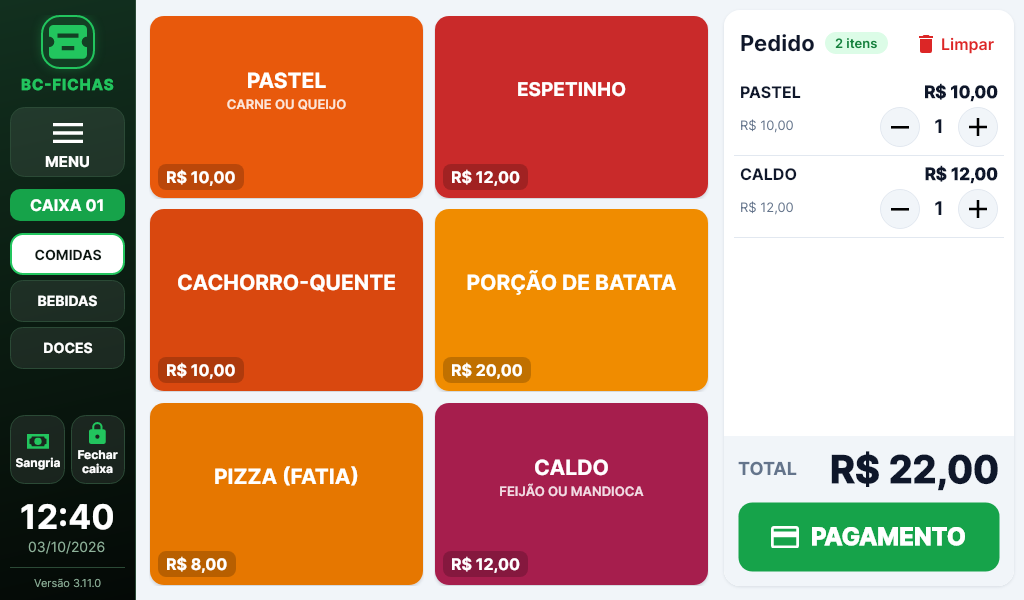
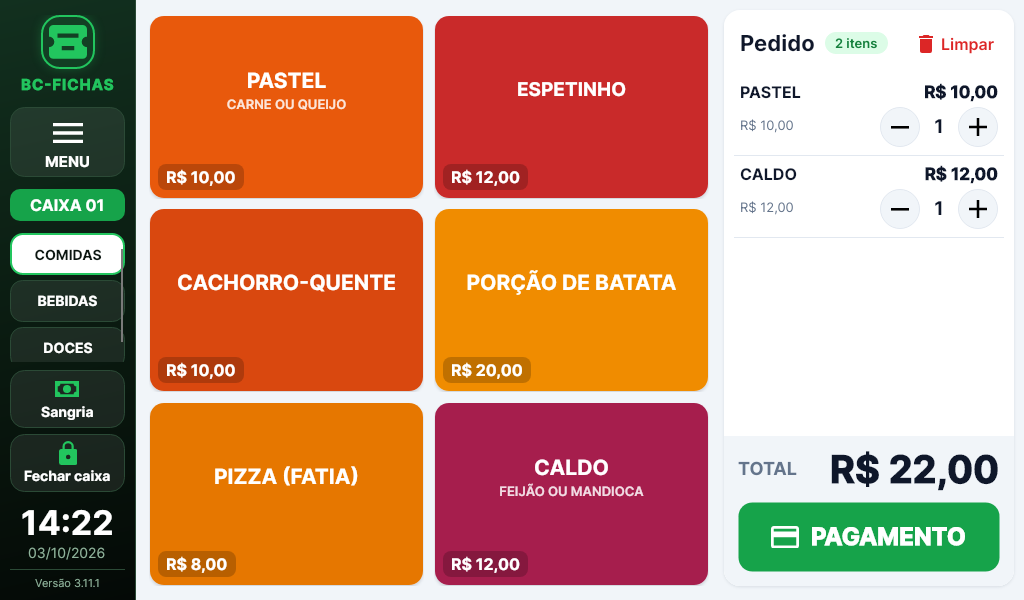
Versão 3.11.1: fotos sem cópias repetidas e Sangria/Fechar caixa maiores
- A foto ou o logotipo escolhido ganha o nome tirado da própria imagem:
  escolher a mesma de novo não cria outra cópia em dados\imagens.
- Imagens que nenhum produto nem o logotipo usam (foto trocada, produto
  excluído, logotipo antigo, evento anterior) são apagadas ao abrir o
  programa, ao restaurar, ao apagar as vendas e ao zerar a programação.
  Zerar e restaurar também limpam as fichas salvas em dados\impressoes.
- Barra lateral: Sangria e Fechar caixa um embaixo do outro, na largura
  toda; o telefone do suporte foi para o rodapé do Menu.

Claude-Session: https://claude.ai/code/session_01PrUwZ2SHAkAtG8QPnZCrhE

Changed region(s): [[0.0, 0.6, 0.125, 0.81], [0.0, 0.84, 0.125, 0.99]]

diff --git a/tests/BCFichas.Tests/Core/ImagensSemUsoTests.cs b/tests/BCFichas.Tests/Core/ImagensSemUsoTests.cs
@@ -1,0 +1,146 @@
+using BCFichas.Core;
+using BCFichas.Core.Impressao;
+using SkiaSharp;
+using Xunit;
+
+namespace BCFichas.Tests.Core;
+
+/// <summary>
+/// As fotos dos produtos e os logotipos ficam na pasta de dados: a mesma imagem não vira outra cópia e o que
+/// ninguém usa mais é apagado (ao abrir o programa, ao restaurar, ao apagar as vendas e ao zerar a programação).
+/// </summary>
+public class ImagensSemUsoTests : IDisposable
+{
+    private readonly SistemaTemporario _a = new();
+    private readonly SistemaTemporario _b = new();
+    private Sistema S => _a.Sistema;
+
+    public void Dispose()
+    {
+        _a.Dispose();
+        _b.Dispose();
+    }
+
+    private string Origem(string nome, SKColor cor)
+    {
+        var caminho = Path.Combine(_a.Pasta, nome + ".png");
+        using var bmp = new SKBitmap(300, 300);
+        using (var c = new SKCanvas(bmp)) c.Clear(cor);
+        ImagemUtil.SalvarPng(bmp, caminho);
+        return caminho;
+    }
+
+    private string Foto(SKColor cor) =>
+        Path.Combine("imagens", "produtos",
+            ImagemUtil.Importar(Origem("foto", cor), Path.Combine(S.PastaImagens, "produtos"), "", 256));
+
+    private string Logo(SKColor cor) =>
+        Path.Combine("imagens", ImagemUtil.Importar(Origem("logo", cor), S.PastaImagens, "logo-", 600));
+
+    private string[] Arquivos() =>
+        Directory.GetFiles(S.PastaImagens, "*", SearchOption.AllDirectories)
+            .Select(f => Path.GetRelativePath(S.PastaDados, f)).Order().ToArray();
+
+    private void UsarFoto(string produto, string? foto)
+    {
+        var p = S.Catalogo.Produtos().First(x => x.Nome == produto);
+        p.Imagem = foto;
+        S.Catalogo.SalvarProduto(p, 30);
+    }
+
+    private void UsarLogo(string? logo)
+    {
+        var config = S.Config.Atual.Clonar();
+        config.Logo = logo;
+        S.Config.Salvar(config);
+    }
+
+    [Fact]
+    public void A_mesma_imagem_escolhida_de_novo_nao_vira_outra_copia()
+    {
+        var primeira = Foto(SKColors.Orange);
+        var deNovo = Foto(SKColors.Orange);
+        var outra = Foto(SKColors.Green);
+        Assert.Equal(primeira, deNovo);
+        Assert.NotEqual(primeira, outra);
+        Assert.Equal(Logo(SKColors.Black), Logo(SKColors.Black));
+        Assert.StartsWith("logo-", Path.GetFileName(Logo(SKColors.Black)));
+        Assert.Equal(3, Arquivos().Length); // 2 fotos e 1 logotipo
+    }
+
+    [Fact]
+    public void Apaga_so_as_imagens_que_ninguem_usa()
+    {
+        var pastel = Foto(SKColors.Orange);
+        var cerveja = Foto(SKColors.Yellow);
+        var trocada = Foto(SKColors.Red);
+        var logoVelho = Logo(SKColors.Gray);
+        var logo = Logo(SKColors.Black);
+        UsarFoto("PASTEL", pastel);
+        UsarFoto("CERVEJA", cerveja);
+        UsarFoto("BOLO", cerveja); // a mesma foto em dois produtos
+        UsarLogo(logo);
+        // Produto fora da tela de venda continua com a foto
+        var cerveja2 = S.Catalogo.Produtos().First(x => x.Nome == "CERVEJA");
+        cerveja2.Ativo = false;
+        S.Catalogo.SalvarProduto(cerveja2, 30);
+
+        Assert.Equal(2, S.Programacao.LimparImagensSemUso()); // a foto trocada e o logotipo velho
+        Assert.Equal(new[] { pastel, cerveja, logo }.Order().ToArray(), Arquivos());
+        Assert.False(File.Exists(Path.Combine(S.PastaDados, trocada)));
+        Assert.False(File.Exists(Path.Combine(S.PastaDados, logoVelho)));
+
+        // Produto excluído: a foto sai na próxima limpeza, ao abrir o programa de novo
+        S.Catalogo.ExcluirProduto(S.Catalogo.Produtos().First(x => x.Nome == "PASTEL").Id);
+        Sistema.Iniciar(_a.Pasta, criarExemplos: false);
+        Assert.DoesNotContain(pastel, Arquivos());
+        Assert.Contains(cerveja, Arquivos());
+    }
+
+    [Fact]
+    public void Reprogramar_para_novo_evento_apaga_todas_as_fotos_os_logotipos_e_as_fichas_salvas()
+    {
+        UsarFoto("PASTEL", Foto(SKColors.Orange));
+        UsarLogo(Logo(SKColors.Black));
+        Logo(SKColors.Gray); // logotipo antigo que sobrou
+        var impressoes = Path.Combine(S.PastaDados, ServicoImpressao.PastaArquivoPadrao);
+        Directory.CreateDirectory(impressoes);
+        File.WriteAllText(Path.Combine(impressoes, "ficha-1.png"), "x");
+
+        S.Programacao.ZerarProgramacao();
+        Assert.Empty(Arquivos());
+        Assert.Empty(Directory.GetFiles(impressoes));
+        Assert.Null(S.Config.Atual.Logo);
+        // As cópias de segurança do banco ficam (são para desfazer um engano)
+        Assert.NotEmpty(Directory.GetFiles(S.Programacao.PastaBackups));
+    }
+
+    [Fact]
+    public void Restaurar_tira_as_imagens_da_programacao_anterior()
+    {
+        // Máquina B: programação do evento novo, com foto e logotipo
+        var b = _b.Sistema;
+        var origem = Path.Combine(_b.Pasta, "pipoca.png");
+        using (var bmp = new SKBitmap(100, 100))
+        {
+            using (var c = new SKCanvas(bmp)) c.Clear(SKColors.Purple);
+            ImagemUtil.SalvarPng(bmp, origem);
+        }
+        var foto = Path.Combine("imagens", "produtos",
+            ImagemUtil.Importar(origem, Path.Combine(b.PastaImagens, "produtos"), "", 256));
+        var pipoca = b.Catalogo.Produtos().First(x => x.Nome == "PIPOCA");
+        pipoca.Imagem = foto;
+        b.Catalogo.SalvarProduto(pipoca, 30);
+        var arquivo = Path.Combine(_b.Pasta, "evento-novo.bcf");
+        b.Programacao.Salvar(arquivo);
+
+        // Máquina A: fotos e logotipo do evento anterior
+        var velha = Foto(SKColors.Orange);
+        UsarFoto("PASTEL", velha);
+        UsarLogo(Logo(SKColors.Black));
+
+        S.Programacao.Carregar(arquivo, 3);
+        Assert.Equal(new[] { foto }, Arquivos());
+        Assert.Equal(foto, S.Catalogo.Produtos().First(x => x.Nome == "PIPOCA").Imagem);
+    }
+}

diff --git a/src/BCFichas.Core/Servicos/ProgramacaoServico.cs b/src/BCFichas.Core/Servicos/ProgramacaoServico.cs
@@ -64,6 +64,7 @@ public sealed class ProgramacaoServico
     }
 
     public string PastaBackups => Path.Combine(_pastaDados, "backups");
+    public string PastaImagens => Path.Combine(_pastaDados, "imagens");
 
     /// <summary>
     /// Caminho completo da pasta do backup. Aceita %USERPROFILE% e afins; um caminho sem a letra do disco vale a
@@ -298,6 +299,7 @@ public sealed class ProgramacaoServico
 
         _config.Salvar(config);
         _catalogo.AvisarAlteracao();
+        LimparArquivosSemUso();
     }
 
     // ---------- Começar de novo ----------
@@ -320,6 +322,7 @@ public sealed class ProgramacaoServico
             ApagarVendas(c, t);
         });
         _catalogo.AvisarAlteracao();
+        LimparArquivosSemUso();
     }
 
     /// <summary>
@@ -342,6 +345,59 @@ public sealed class ProgramacaoServico
         nova.TelasProtegidas = atual.TelasProtegidas;
         _config.Salvar(nova);
         _catalogo.AvisarAlteracao();
+        LimparArquivosSemUso(); // sem produtos e sem logotipo: as fotos e os logos do evento anterior saem todos
+    }
+
+    /// <summary>
+    /// Apaga da pasta de dados as imagens que nenhum produto nem o logotipo usam: foto trocada, produto excluído,
+    /// logotipo antigo, programação de outro evento. Feito ao abrir o programa, ao restaurar e ao zerar a
+    /// programação (com uma tela de produtos aberta, uma foto escolhida e ainda não salva sumiria). Devolve
+    /// quantas apagou.
+    /// </summary>
+    public int LimparImagensSemUso()
+    {
+        if (!Directory.Exists(PastaImagens)) return 0;
+        var usadas = _catalogo.Produtos().Select(p => p.Imagem).Append(_config.Atual.Logo)
+            .Where(i => !string.IsNullOrWhiteSpace(i))
+            .Select(i => Path.GetFullPath(Path.Combine(_pastaDados, i!)))
+            .ToHashSet(StringComparer.OrdinalIgnoreCase);
+        var apagadas = 0;
+        foreach (var arquivo in Directory.GetFiles(PastaImagens, "*", SearchOption.AllDirectories))
+        {
+            if (usadas.Contains(Path.GetFullPath(arquivo))) continue;
+            try
+            {
+                File.Delete(arquivo);
+                apagadas++;
+            }
+            catch (Exception e) when (e is IOException or UnauthorizedAccessException)
+            {
+                // Em uso agora: sai da próxima vez.
+            }
+        }
+        return apagadas;
+    }
+
+    /// <summary>
+    /// Depois de apagar vendas, restaurar ou zerar: tira as imagens sem uso e as fichas que a impressora "Salvar
+    /// em arquivo" (teste sem impressora) guardou na pasta padrão.
+    /// </summary>
+    private void LimparArquivosSemUso()
+    {
+        LimparImagensSemUso();
+        var impressoes = Path.Combine(_pastaDados, Impressao.ServicoImpressao.PastaArquivoPadrao);
+        if (!Directory.Exists(impressoes)) return;
+        foreach (var arquivo in Directory.GetFiles(impressoes))
+        {
+            try
+            {
+                File.Delete(arquivo);
+            }
+            catch (Exception e) when (e is IOException or UnauthorizedAccessException)
+            {
+                // Em uso agora: sai da próxima vez.
+            }
+        }
     }
 
     /// <summary>

diff --git a/tests/BCFichas.Tests/Ui/TelasDaVersao311Tests.cs b/tests/BCFichas.Tests/Ui/TelasDaVersao311Tests.cs
@@ -106,6 +106,11 @@ public class TelasDaVersao311Tests
         var sangria = Assert.Single(Visiveis(t, b => b.Command == t.Venda.AbrirSangriaCommand));
         var fechar = Assert.Single(Visiveis(t, b => b.Command == t.Venda.FecharCaixaCommand));
         Assert.True(TemTexto(fechar, "Fechar caixa"));
+        // Um embaixo do outro, na largura toda da barra: botões grandes para o dedo
+        Assert.All(new[] { sangria, fechar }, b => Assert.True(b.Bounds.Width >= 110 && b.Bounds.Height >= 56,
+            $"{b.Bounds.Width:0} × {b.Bounds.Height:0}"));
+        Assert.True(fechar.TranslatePoint(new Point(0, 0), t.Janela)!.Value.Y >
+                    sangria.TranslatePoint(new Point(0, sangria.Bounds.Height), t.Janela)!.Value.Y);
         // Na lateral esquerda, embaixo das abas e em cima do relógio
         Assert.True(sangria.TranslatePoint(new Point(0, 0), t.Janela)!.Value.X < 136);
         var relogio = t.Achar<TextBlock>(x => x.Text == t.Principal.Relogio && x.IsEffectivelyVisible);
@@ -117,6 +122,8 @@ public class TelasDaVersao311Tests
         Assert.DoesNotContain(textos, x => x.Contains("Maquininha", StringComparison.OrdinalIgnoreCase));
         Assert.DoesNotContain(textos, x => x.Contains(t.Sistema.Impressao.Descricao(), StringComparison.Ordinal));
         Assert.Contains(textos, x => x == t.Principal.Versao);
+        // O telefone do suporte saiu da lateral e foi para o menu
+        Assert.DoesNotContain(textos, x => x.Contains(Configuracao.Suporte, StringComparison.Ordinal));
 
         // Sangria abre direto (o Voltar volta para a venda, sem o menu)
         sangria.Command!.Execute(null);
@@ -133,6 +140,8 @@ public class TelasDaVersao311Tests
         t.Venda.AbrirMenuCommand.Execute(null);
         var menu = Assert.IsType<MenuViewModel>(t.Principal.Dialogo);
         Assert.DoesNotContain(menu.Itens, i => i.Titulo is "Sangria / Suprimento" or "Fechar caixa");
+        TelaDeTeste.Atualizar();
+        t.Achar<TextBlock>(x => x.Text == "Suporte BC Fichas: " + Configuracao.Suporte);
     }
 
     [AvaloniaFact]

diff --git a/src/BCFichas.Core/Impressao/ImagemUtil.cs b/src/BCFichas.Core/Impressao/ImagemUtil.cs
@@ -1,3 +1,4 @@
+using System.Security.Cryptography;
 using SkiaSharp;
 
 namespace BCFichas.Core.Impressao;
@@ -37,14 +38,20 @@ public static class ImagemUtil
     }
 
     /// <summary>
-    /// Copia uma imagem escolhida pelo usuário para a pasta do sistema, já reduzida (economiza memória do tablet).
+    /// Copia uma imagem escolhida pelo usuário para <paramref name="pasta"/>, já reduzida (economiza memória do
+    /// tablet). O nome do arquivo vem do conteúdo da imagem: escolher a mesma foto de novo (em outro produto ou no
+    /// mesmo) usa o arquivo que já existe, sem fazer outra cópia. Devolve o nome do arquivo.
     /// </summary>
-    public static void Importar(string origem, string destino, int tamanhoMaximo)
+    public static string Importar(string origem, string pasta, string prefixo, int tamanhoMaximo)
     {
         using var imagem = SKBitmap.Decode(origem) ?? throw new ErroDeNegocio("Não consegui abrir esta imagem.");
         using var menor = Ajustar(imagem, tamanhoMaximo, tamanhoMaximo);
-        Directory.CreateDirectory(Path.GetDirectoryName(destino)!);
-        SalvarPng(menor, destino);
+        var png = Png(menor);
+        var nome = prefixo + Convert.ToHexString(SHA256.HashData(png))[..16].ToLowerInvariant() + ".png";
+        Directory.CreateDirectory(pasta);
+        var destino = Path.Combine(pasta, nome);
+        if (!File.Exists(destino)) File.WriteAllBytes(destino, png);
+        return nome;
     }
 
     public static void SalvarPng(SKBitmap bitmap, string caminho)

diff --git a/tests/BCFichas.Tests/Ui/FluxoDeVendaTests.cs b/tests/BCFichas.Tests/Ui/FluxoDeVendaTests.cs
@@ -300,9 +300,9 @@ public class FluxoDeVendaTests
                 c.DrawText(emoji, 18, 205, p);
                 BCFichas.Core.Impressao.ImagemUtil.SalvarPng(bmp, origem);
             }
-            var relativo = Path.Combine("imagens", "produtos", produto.Id + ".png");
-            BCFichas.Core.Impressao.ImagemUtil.Importar(origem, Path.Combine(t.Sistema.PastaDados, relativo), 256);
-            produto.Imagem = relativo;
+            var nome = BCFichas.Core.Impressao.ImagemUtil.Importar(origem,
+                Path.Combine(t.Sistema.PastaImagens, "produtos"), "", 256);
+            produto.Imagem = Path.Combine("imagens", "produtos", nome);
             t.Sistema.Catalogo.SalvarProduto(produto, 12);
         }
         TelaDeTeste.Atualizar();

diff --git a/src/BCFichas.App/ViewModels/ProdutosViewModel.cs b/src/BCFichas.App/ViewModels/ProdutosViewModel.cs
@@ -471,9 +471,8 @@ public sealed partial class ProdutosViewModel : PaginaViewModel
         if (arquivo is null) return;
         try
         {
-            var relativo = Path.Combine("imagens", "produtos", Guid.NewGuid().ToString("N")[..12] + ".png");
-            ImagemUtil.Importar(arquivo, Path.Combine(Sistema.PastaDados, relativo), 256);
-            Imagem = relativo;
+            var nome = ImagemUtil.Importar(arquivo, Path.Combine(Sistema.PastaImagens, "produtos"), "", 256);
+            Imagem = Path.Combine("imagens", "produtos", nome);
         }
         catch (Exception e)
         {

diff --git a/src/BCFichas.Core/Impressao/ServicoImpressao.cs b/src/BCFichas.Core/Impressao/ServicoImpressao.cs
@@ -24,7 +24,10 @@ public sealed class ServicoImpressao
 
     public ResultadoImpressao? Ultimo { get; private set; }
 
-    public string PastaPadraoArquivo => Path.Combine(_pastaDados, "impressoes");
+    /// <summary>Pasta (dentro da pasta de dados) onde "Salvar em arquivo" guarda as fichas, se não escolher outra.</summary>
+    public const string PastaArquivoPadrao = "impressoes";
+
+    public string PastaPadraoArquivo => Path.Combine(_pastaDados, PastaArquivoPadrao);
 
     public IDestinoImpressao CriarDestino(Configuracao c) => c.Impressora switch
     {

diff --git a/src/BCFichas.Core/Sistema.cs b/src/BCFichas.Core/Sistema.cs
@@ -62,6 +62,15 @@ public sealed class Sistema
         {
             sistema.Catalogo.SalvarAba(new Aba { Nome = "ITENS" });
         }
+        // Fotos e logotipos que sobraram (trocados, de produtos excluídos) não ficam acumulando na pasta de dados.
+        try
+        {
+            sistema.Programacao.LimparImagensSemUso();
+        }
+        catch (Exception e) when (e is IOException or UnauthorizedAccessException)
+        {
+            // Sem permissão na pasta: o programa abre do mesmo jeito.
+        }
         return sistema;
     }
 

diff --git a/src/BCFichas.App/ViewModels/ConfiguracaoViewModel.cs b/src/BCFichas.App/ViewModels/ConfiguracaoViewModel.cs
@@ -928,9 +928,7 @@ public sealed partial class ConfiguracaoViewModel : PaginaViewModel
         if (arquivo is null) return;
         try
         {
-            var relativo = Path.Combine("imagens", "logo-" + DateTime.Now.Ticks + ".png");
-            ImagemUtil.Importar(arquivo, Path.Combine(Sistema.PastaDados, relativo), 600);
-            Logo = relativo;
+            Logo = Path.Combine("imagens", ImagemUtil.Importar(arquivo, Sistema.PastaImagens, "logo-", 600));
         }
         catch (Exception e)
         {

diff --git a/src/BCFichas.App/ViewModels/DialogosViewModels.cs b/src/BCFichas.App/ViewModels/DialogosViewModels.cs
@@ -52,6 +52,7 @@ public sealed partial class MenuViewModel : ViewModelBase
     }
 
     public List<ItemMenu> Itens { get; }
+    public string Suporte => "Suporte BC Fichas: " + Configuracao.Suporte;
 
     /// <summary>Tela aberta pelo menu: o Voltar dela traz o menu de volta.</summary>
     private void AbrirPeloMenu(TelaProtegida tela, Func<PaginaViewModel> criar) =>

diff --git a/README.md b/README.md
@@ -13,7 +13,7 @@ na **Elgin i9** em papel de 80 mm.
 
 | Tela | O que faz |
 | --- | --- |
-| **Venda** | Barra lateral preta e verde com a marca da BC Fichas, menu, caixa, as **abas do cardápio** (Comidas, Bebidas… até umas 6, uma embaixo da outra), os botões **Sangria** e **Fechar caixa** e o relógio; botões com foto do produto (ou só cor) que **ocupam a tela toda, sem espaço vazio** (cada aba tem a sua grade, veja "Grade de botões"); pedido com + e − (o valor de cada linha fica sempre à vista, mesmo com nome comprido); total e botão de pagamento. Depois de uma venda em dinheiro com troco, o **troco** fica uns 5 segundos em cima do pedido (sem tapar os produtos). |
+| **Venda** | Barra lateral preta e verde com a marca da BC Fichas, menu, caixa, as **abas do cardápio** (Comidas, Bebidas… até umas 6, uma embaixo da outra), os botões **Sangria** e **Fechar caixa** (grandes, um embaixo do outro) e o relógio; o telefone do suporte fica no Menu e na abertura do caixa; botões com foto do produto (ou só cor) que **ocupam a tela toda, sem espaço vazio** (cada aba tem a sua grade, veja "Grade de botões"); pedido com + e − (o valor de cada linha fica sempre à vista, mesmo com nome comprido); total e botão de pagamento. Depois de uma venda em dinheiro com troco, o **troco** fica uns 5 segundos em cima do pedido (sem tapar os produtos). |
 | **Pagamento** | Cartões grandes para Dinheiro, PIX (com o símbolo oficial do Pix), Débito e Crédito. Dinheiro: o valor recebido **já vem com o valor da venda** (pagou certinho, é só confirmar); se o cliente deu mais, é só digitar (a primeira tecla apaga e começa do zero) ou tocar nas notas, e o troco (ou quanto falta) aparece embaixo; o **Limpar** fica no teclado, no lugar do 00. Débito, crédito e PIX registrados para o relatório (veja "Maquininha de cartão"). |
 | **Menu** | Produtos, Relatórios, Configurações e Sair (Sangria e Fechar caixa ficam na barra lateral). **Reimprimir** e **Devolver fichas** só aparecem quando a BC Fichas libera para o cliente (Configurações → Máquina). Ao voltar de uma tela aberta pelo menu, o menu continua aberto; ele só fecha no X. |
 | **Produtos** | Nome, detalhe, preço, custo, aba, posição na tela, cor, imagem (o botão Imagem abre sempre em `C:\Sistema_New\produtos`), estoque, fichas por unidade e **combos** (veja "Combos"). Produto pode ficar fora da tela de venda. |
@@ -184,14 +184,21 @@ ninguém apagar um evento em andamento com um toque.
 
 **Reprogramação para novo evento → Zerar programação:** é o "banco vazio" de antes, para cadastrar um evento
 diferente. Apaga vendas, produtos, combos, abas, evento e o jeito da ficha. Ficam só o número do caixa, a impressora, as opções de tela, as pastas e a senha
-master; Devolução e Reimpressão voltam a ficar desligadas no menu.
+master; Devolução e Reimpressão voltam a ficar desligadas no menu. As fotos dos produtos, os logotipos e as fichas
+salvas pela impressora "Salvar em arquivo" (pasta `dados\impressoes`) também são apagados.
+
+**Fotos e logotipos não acumulam:** ao escolher uma foto ou um logotipo, o programa guarda uma cópia reduzida em
+`dados\imagens` com o nome tirado da própria imagem, então a mesma foto escolhida de novo (no mesmo produto ou em
+outro) não vira outro arquivo. As imagens que nenhum produto nem o logotipo usam mais (foto trocada, produto
+excluído, logotipo antigo, programação de outro evento) são apagadas ao abrir o programa, ao restaurar um backup,
+ao apagar as vendas e ao zerar a programação.
 
 | Aba Máquina | Qual backup restaurar | Número do caixa |
 | --- | --- | --- |
 | ![](docs/telas/60-config-maquina-liberar.png) | ![](docs/telas/47-restaurar-lista.png) | ![](docs/telas/44-numero-do-caixa.png) |
 
 Antes de apagar ou restaurar, o programa sempre guarda uma **cópia de segurança** do banco em `dados\backups`
-(as 15 últimas). Para voltar uma cópia: feche o BC Fichas, copie o arquivo `.db` da cópia para
+(as 15 últimas; a cópia é só do banco, sem as fotos — para guardar um evento inteiro, use o **Fazer backup**). Para voltar uma cópia: feche o BC Fichas, copie o arquivo `.db` da cópia para
 `dados\bcfichas.db` (substituindo) e abra de novo.
 
 ## Instalar no tablet
